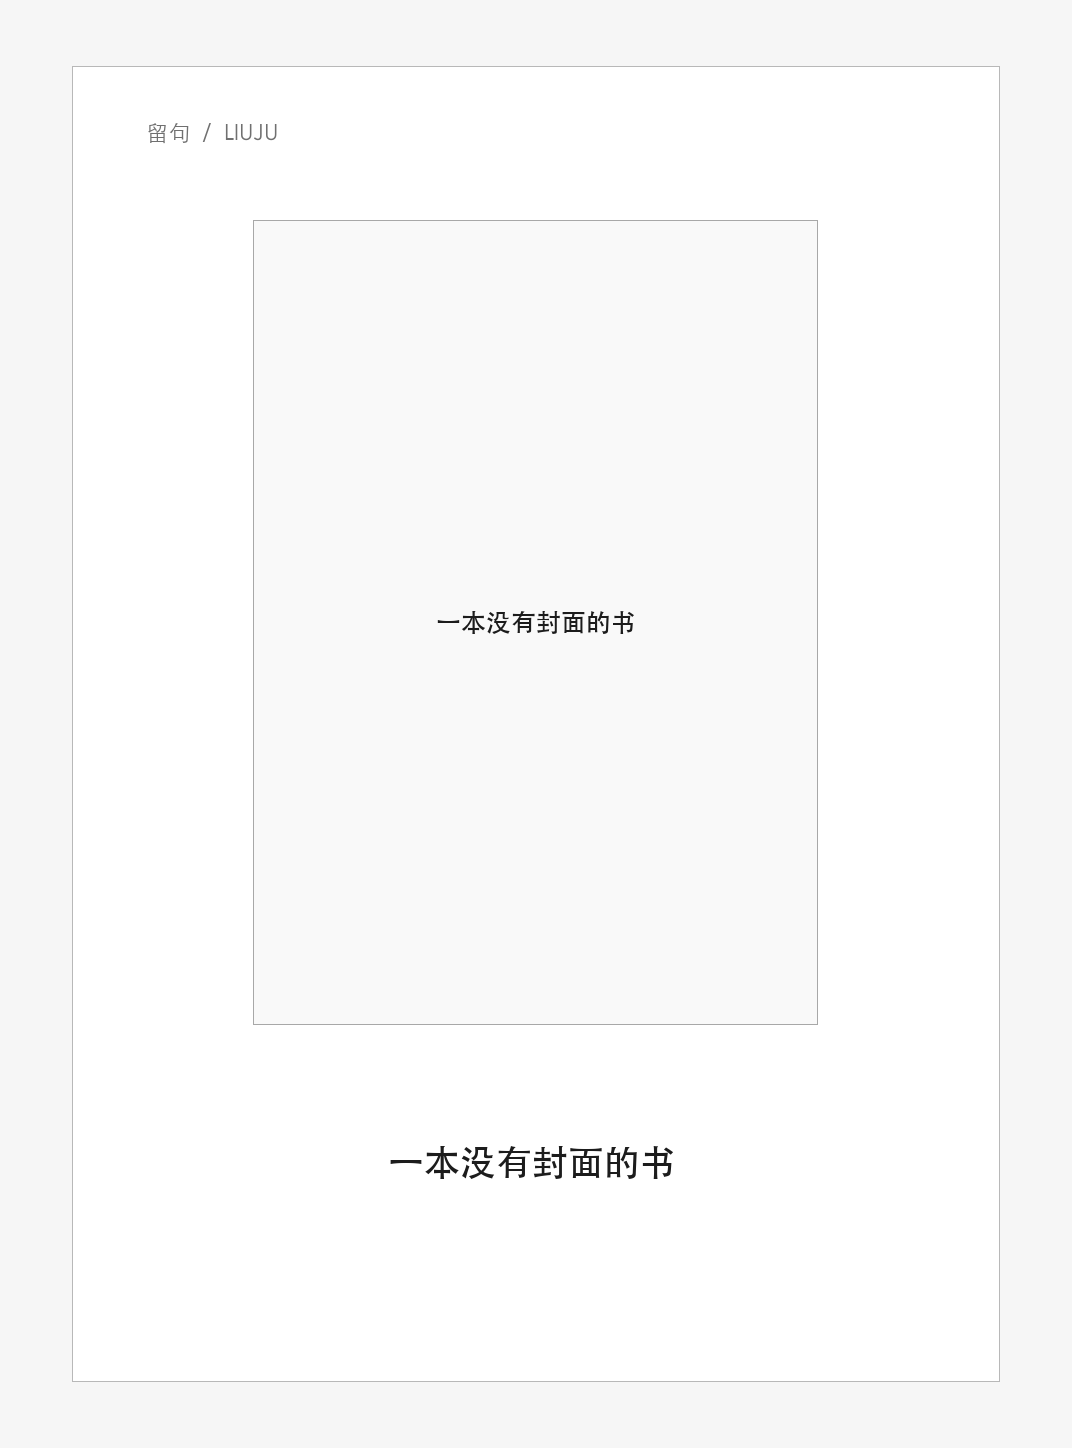
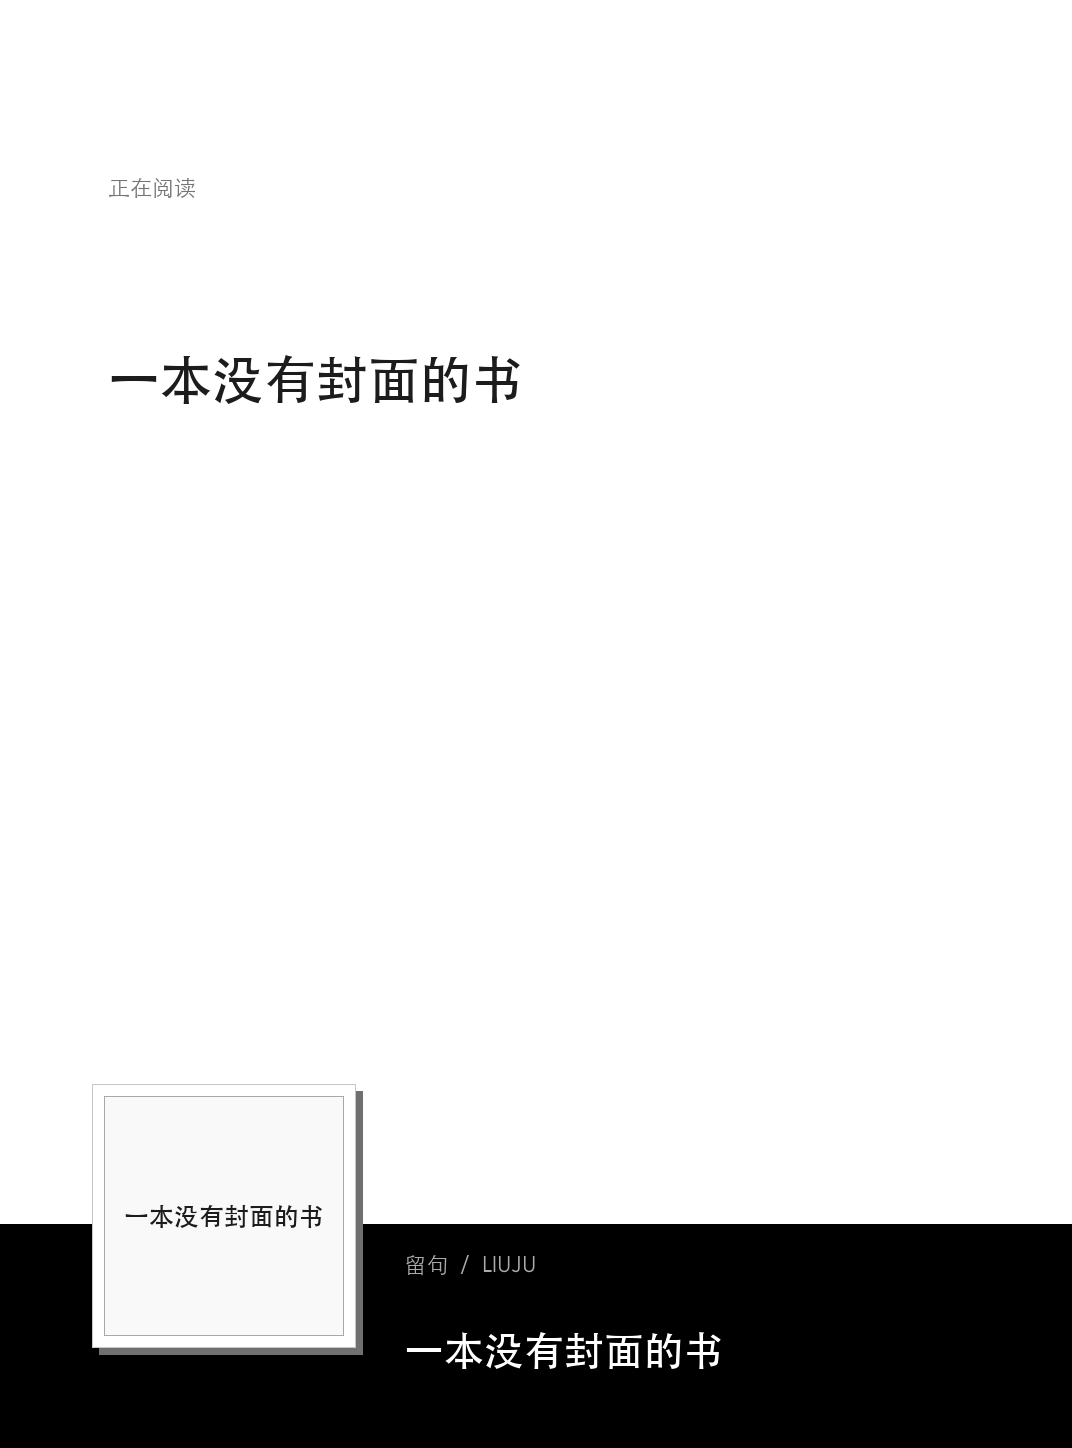
Use a sharing-poster layout with lower-left cover and black title bar

diff --git a/tools/preview.py b/tools/preview.py
@@ -57,12 +57,15 @@ class Painter:
         line_height = math.floor(float(size) * (1 + float(options["line_height"] or 0.48)) + 0.5)
         height = line_height * len(lines)
         key = self.next_id()
-        self.widgets[key] = (lines, font, line_height, int(width), options["align"], int(options["gray"] or 28))
+        gray = 28 if options["gray"] is None else int(options["gray"])
+        background = 255 if options["bgcolor"] is None else int(options["bgcolor"])
+        self.widgets[key] = (lines, font, line_height, int(width), options["align"], gray, background)
         return key, height, len(lines)
 
     def paint_text(self, key, canvas, x, y):
-        lines, font, line_height, width, align, gray = self.widgets[key]
+        lines, font, line_height, width, align, gray, background = self.widgets[key]
         draw = ImageDraw.Draw(self.canvases[canvas])
+        draw.rectangle((x, y, x + width - 1, y + line_height * len(lines) - 1), fill=background)
         for i, line in enumerate(lines):
             advance = font.getlength(line)
             dx = (width - advance) / 2 if align == "center" else width - advance if align == "right" else 0
@@ -172,22 +175,14 @@ def main():
     missing = out / "missing-cover.png"
     assert render(lua.table_from({"title": "一本没有封面的书"}), None, str(missing)) is True
 
-    # A second header proportion is evaluated against the same renderer.
-    lua.execute("""
-        original_layout=layout.for_screen
-        layout.for_screen=function(w,h)
-            local l=original_layout(w,h)
-            l.cover={x=146,y=212,w=140,h=200}
-            l.title={x=335,y=217,w=583,h=175}
-            l.divider.y=463; l.body.y=520; l.body.h=630
-            return l
-        end
-    """)
-    candidate = out / "candidate-compact.png"
-    assert render(book, lua.table_from({"text": medium, "note": "", "date": "2026.11.03"}), str(candidate)) is True
-    lua.execute("layout.for_screen=original_layout")
+    assert render(lua.table_from({"title": "一本没有封面的书"}),
+                  lua.table_from({"text": short, "note": "", "date": "2026.11.03"}),
+                  str(out / "missing-cover-with-quote.png")) is True
+    assert render(lua.table_from({"title": "慢读的日子：关于散步、停留、阅读和日常生活的温柔观察与私人记录", "cover": cover}),
+                  lua.table_from({"text": medium, "note": "", "date": "2026.11.03"}),
+                  str(out / "long-title.png")) is True
     for name, items, thumb_w in [
-        ("design-comparison.png", [(out / "medium.png", "A · 标准封面（选用）"), (candidate, "B · 紧凑封面")], 402),
+        ("design-comparison.png", [(out / "previous-receipt.png", "原小票布局"), (out / "medium.png", "新分享海报布局")], 402),
         ("selected-gallery.png", rendered, 268),
     ]:
         thumb_h = round(1448 / 1072 * thumb_w)

diff --git a/docs/IMPLEMENTATION-STATUS.md b/docs/IMPLEMENTATION-STATUS.md
@@ -1,6 +1,6 @@
 # 留句实现记录
 
-日期：2026-11-03；候选版本：0.1.0-rc.1。
+日期：2026-11-03；候选版本：0.1.0-rc.2。
 
 ## 目标与完成情况
 
@@ -9,7 +9,7 @@
 | 阶段 | 当前结果 |
 | --- | --- |
 | 接口核验 | 已阅读官方源码和本地单向历实现，建立标注样本；未运行完整 KOReader |
-| 壁纸视觉 | 已生成两种封面比例比较和短、中、80 字、带笔记、无封面样图；选用标准封面版式 |
+| 壁纸视觉 | 按用户参考改为分享海报版式；已有短、中、80 字、带笔记、长书名与无封面样图 |
 | 单条生成 | Lua 收集、长度筛选、实际排版筛选、离屏绘制和 PNG 输出链路已实现 |
 | 图片池同步 | 已实现按书隔离、缓存复用、增删改、上限更新、旧任务取消 |
 | 屏保接入 | 已实现随机池、静态封面回退、备份恢复、让出用户的新配置 |
@@ -18,9 +18,9 @@
 
 ## 视觉选择
 
-选用 [A 标准封面](../previews/design-comparison.png)。封面承担书籍识别，正文保留独立留白；80 字边界内容仍使用相同字号。短摘录按原生文本布局结果平衡文本块宽度，避免只剩一两个字的尾行。
+采用 [新的分享海报布局](../previews/design-comparison.png)：正文靠左置于上方，日期紧随其后；左下角的方形唱片卡展示完整比例书封，书名以白字位于右侧黑色底栏。保留大块留白，省去旧版小票边框和虚线。
 
-KPW4 设计基准中，正文 46 像素、笔记 42 像素、书名 36 像素。尺寸随目标屏幕等比例变化。书名过长时单独省略，正文保持完整；正文高度超出可用区域时整条跳过。
+KPW4 设计基准中，正文 52 像素、笔记 46 像素、底栏书名 40 像素。尺寸随目标屏幕等比例变化。短摘录按原生行数平衡换行，保持左对齐。书名过长时单独省略，正文保持完整；正文高度超出可用区域时整条跳过。
 
 桌面样图用 macOS 字体模拟栅格化，坐标、排版流程和筛选逻辑来自正式 Lua 渲染器。该结果证明桌面模板可用，不能证明 KPW4 上的原生字体与灰阶完全相同。
 
@@ -49,7 +49,7 @@ KPW4 设计基准中，正文 46 像素、笔记 42 像素、书名 36 像素。
 ## 仍需实机回答的问题
 
 - 实际 KOReader 版本是否具备上述标注接口。
-- 默认中文字形、46 像素字号、边框与灰阶在 KPW4 上的效果。
+- 默认中文字形、52 像素字号、黑色底栏与灰阶在 KPW4 上的效果。
 - 打开带大量标注的书时，分批渲染是否仍保持阅读响应。
 - 原生休眠、唤醒、横屏阅读与切换单向历后的表现。
 

diff --git a/README.md b/README.md
@@ -2,13 +2,14 @@
 
 把当前阅读书籍中简短的高亮与批注，排成带封面和标注日期的锁屏壁纸。每次 Kindle 休眠时随机展示一张，换书时自动切换图片池。
 
-**当前版本：0.1.0-rc.1 候选版。** 目标设备为 KPW4，已完成本机回归与桌面视觉检查，尚待 KPW4 实机确认。KOReader 的具体版本待确认；插件使用现代的 annotations 接口。
+**当前版本：0.1.0-rc.2 候选版。** 目标设备为 KPW4，已完成本机回归与桌面视觉检查，尚待 KPW4 实机确认。KOReader 的具体版本待确认；插件使用现代的 annotations 接口。
 
 ![留句壁纸样图](previews/selected-gallery.png)
 
 ## 使用体验
 
 - 打开书籍后，自动读取当前书的高亮和批注，分批生成图片。
+- 采用黑白分享海报版式：正文在上方，书封放在左下角方形唱片卡里，书名以白字排在右侧黑色底栏，日期跟随正文。
 - 默认上限 80 字；中文、字母、数字和标点各算一字，空白不计。原文与笔记合并计算。
 - 字数合格后，以固定字号实际排版；放不下的内容跳过。短摘录会平衡文本块宽度，保持原文和字号。
 - 每条标注最多一张壁纸，包含封面、书名、原文或笔记、原始标注日期。页码和章节用于内部识别，不出现在壁纸上。
@@ -20,7 +21,7 @@
 
 ## 安装候选版
 
-1. 获取名为 `liuju.koplugin-v0.1.0-rc.1.zip` 的安装包，解压得到 `liuju.koplugin` 文件夹。
+1. 获取名为 `liuju.koplugin-v0.1.0-rc.2.zip` 的安装包，解压得到 `liuju.koplugin` 文件夹。
 2. 完全退出 KOReader，将文件夹复制到 Kindle 的：
 
    ```text
@@ -41,6 +42,8 @@
 如果同时使用单向历，请先关闭单向历的“自动配置屏保”，再启用留句。两者设置的是同一套 KOReader 屏保。留句发现用户或其他插件改换屏保后，会让出配置并关闭自身开关；需要重新使用时可在菜单里开启。
 
 GitHub 的源码 ZIP 解压后带有分支后缀，手动安装源码时需将目录改为 `liuju.koplugin`。
+
+从 rc.1 升级后，当前书的小票会自动按新样式重新生成。
 
 ## 图片、设置与停用
 

diff --git a/docs/DEVICE-VALIDATION.md b/docs/DEVICE-VALIDATION.md
@@ -6,7 +6,7 @@
 
 - Kindle 固件：待填写
 - KOReader 版本：待填写
-- 插件：0.1.0-rc.1
+- 插件：0.1.0-rc.2
 - 原生屏幕尺寸：待记录
 - 执行日期和结果：待填写
 
@@ -16,6 +16,7 @@
 2. 如在使用单向历，先关闭它的自动配置屏保。
 3. 打开一本有短高亮的 EPUB，等待几秒，进入“工具 → 留句 → 预览一张”。
 4. 确认封面比例、书名、正文、创建日期完整；正常阅读距离下字体清楚。
+   正文位于上方，左下角是方形封面卡，书名在其右侧的黑栏上，白字完整可读。
 5. 合盖或按电源键休眠，检查真实锁屏图；唤醒后正常继续阅读。
 
 ## 内容与换书

diff --git a/CHANGELOG.md b/CHANGELOG.md
@@ -1,5 +1,13 @@
 # 变更记录
 
+## 0.1.0-rc.2 · 2026-11-03
+
+- 根据分享海报参考重新排版：摘录与笔记置于上方，日期跟随正文。
+- 左下角方形唱片卡内保持书封比例，右侧黑色底栏使用白字显示书名。
+- 正文固定 52 像素设计基准，笔记 46 像素，底栏书名 40 像素。
+- 支持黑底文字部件，补充布局位置、覆盖关系与白字黑底的回归检查。
+- 更新版式缓存标识，升级后自动生成新样式；保留 KPW4 实机待验收状态。
+
 ## 0.1.0-rc.1 · 2026-11-03
 
 - 当前书籍的纯文本高亮、笔记自动生成固定字号的读书小票。

diff --git a/docs/PRODUCT-INTENT.md b/docs/PRODUCT-INTENT.md
@@ -50,6 +50,7 @@
 视觉重心是摘录与笔记。封面承担书籍识别，日期作为安静的落款。
 
 - 使用一套主要版式，根据设备屏幕分辨率等比例排版。
+- 参考黑白音乐分享海报：正文在上方，左下角以方形唱片卡展示书封；右侧黑色底栏放白字书名。日期位于正文下方。
 - 正文有足够的字号、行距和周边留白；短文字也保留相同的字号。
 - 封面保持比例，书名明确可读，日期使用较低的视觉权重。
 - 首版采用适合黑白墨水屏的配色与层次，实际效果以 Kindle 屏幕为准。
